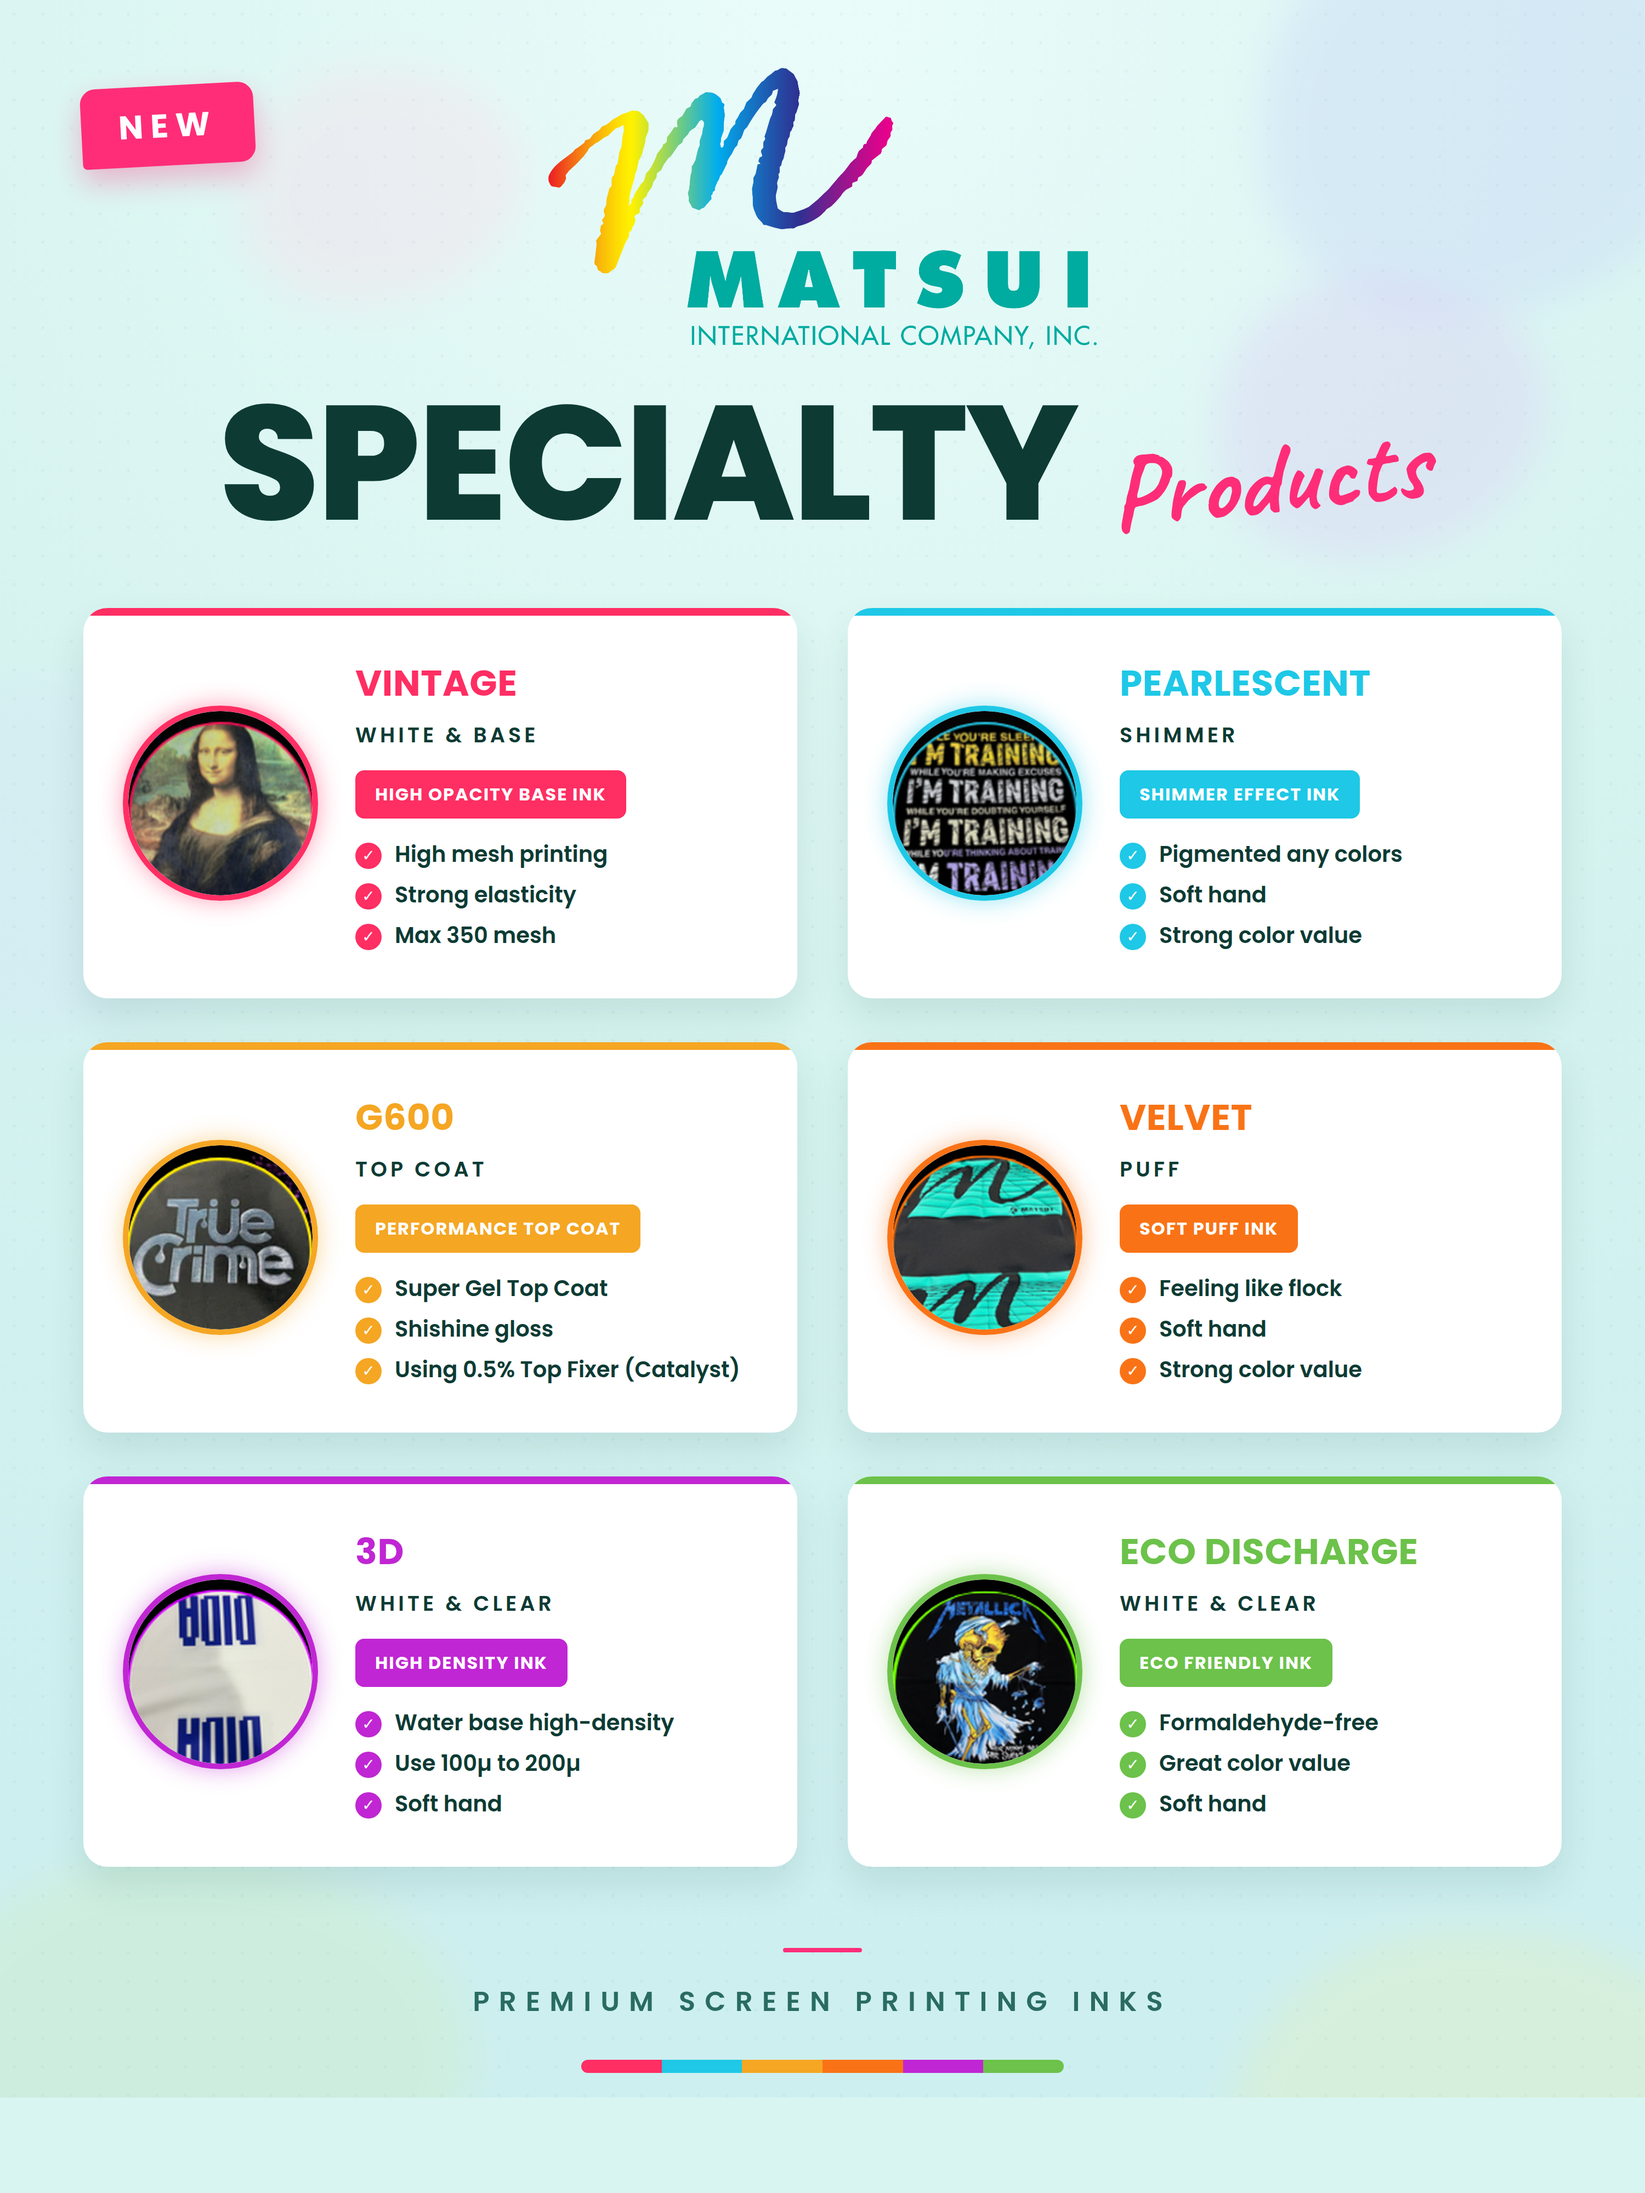
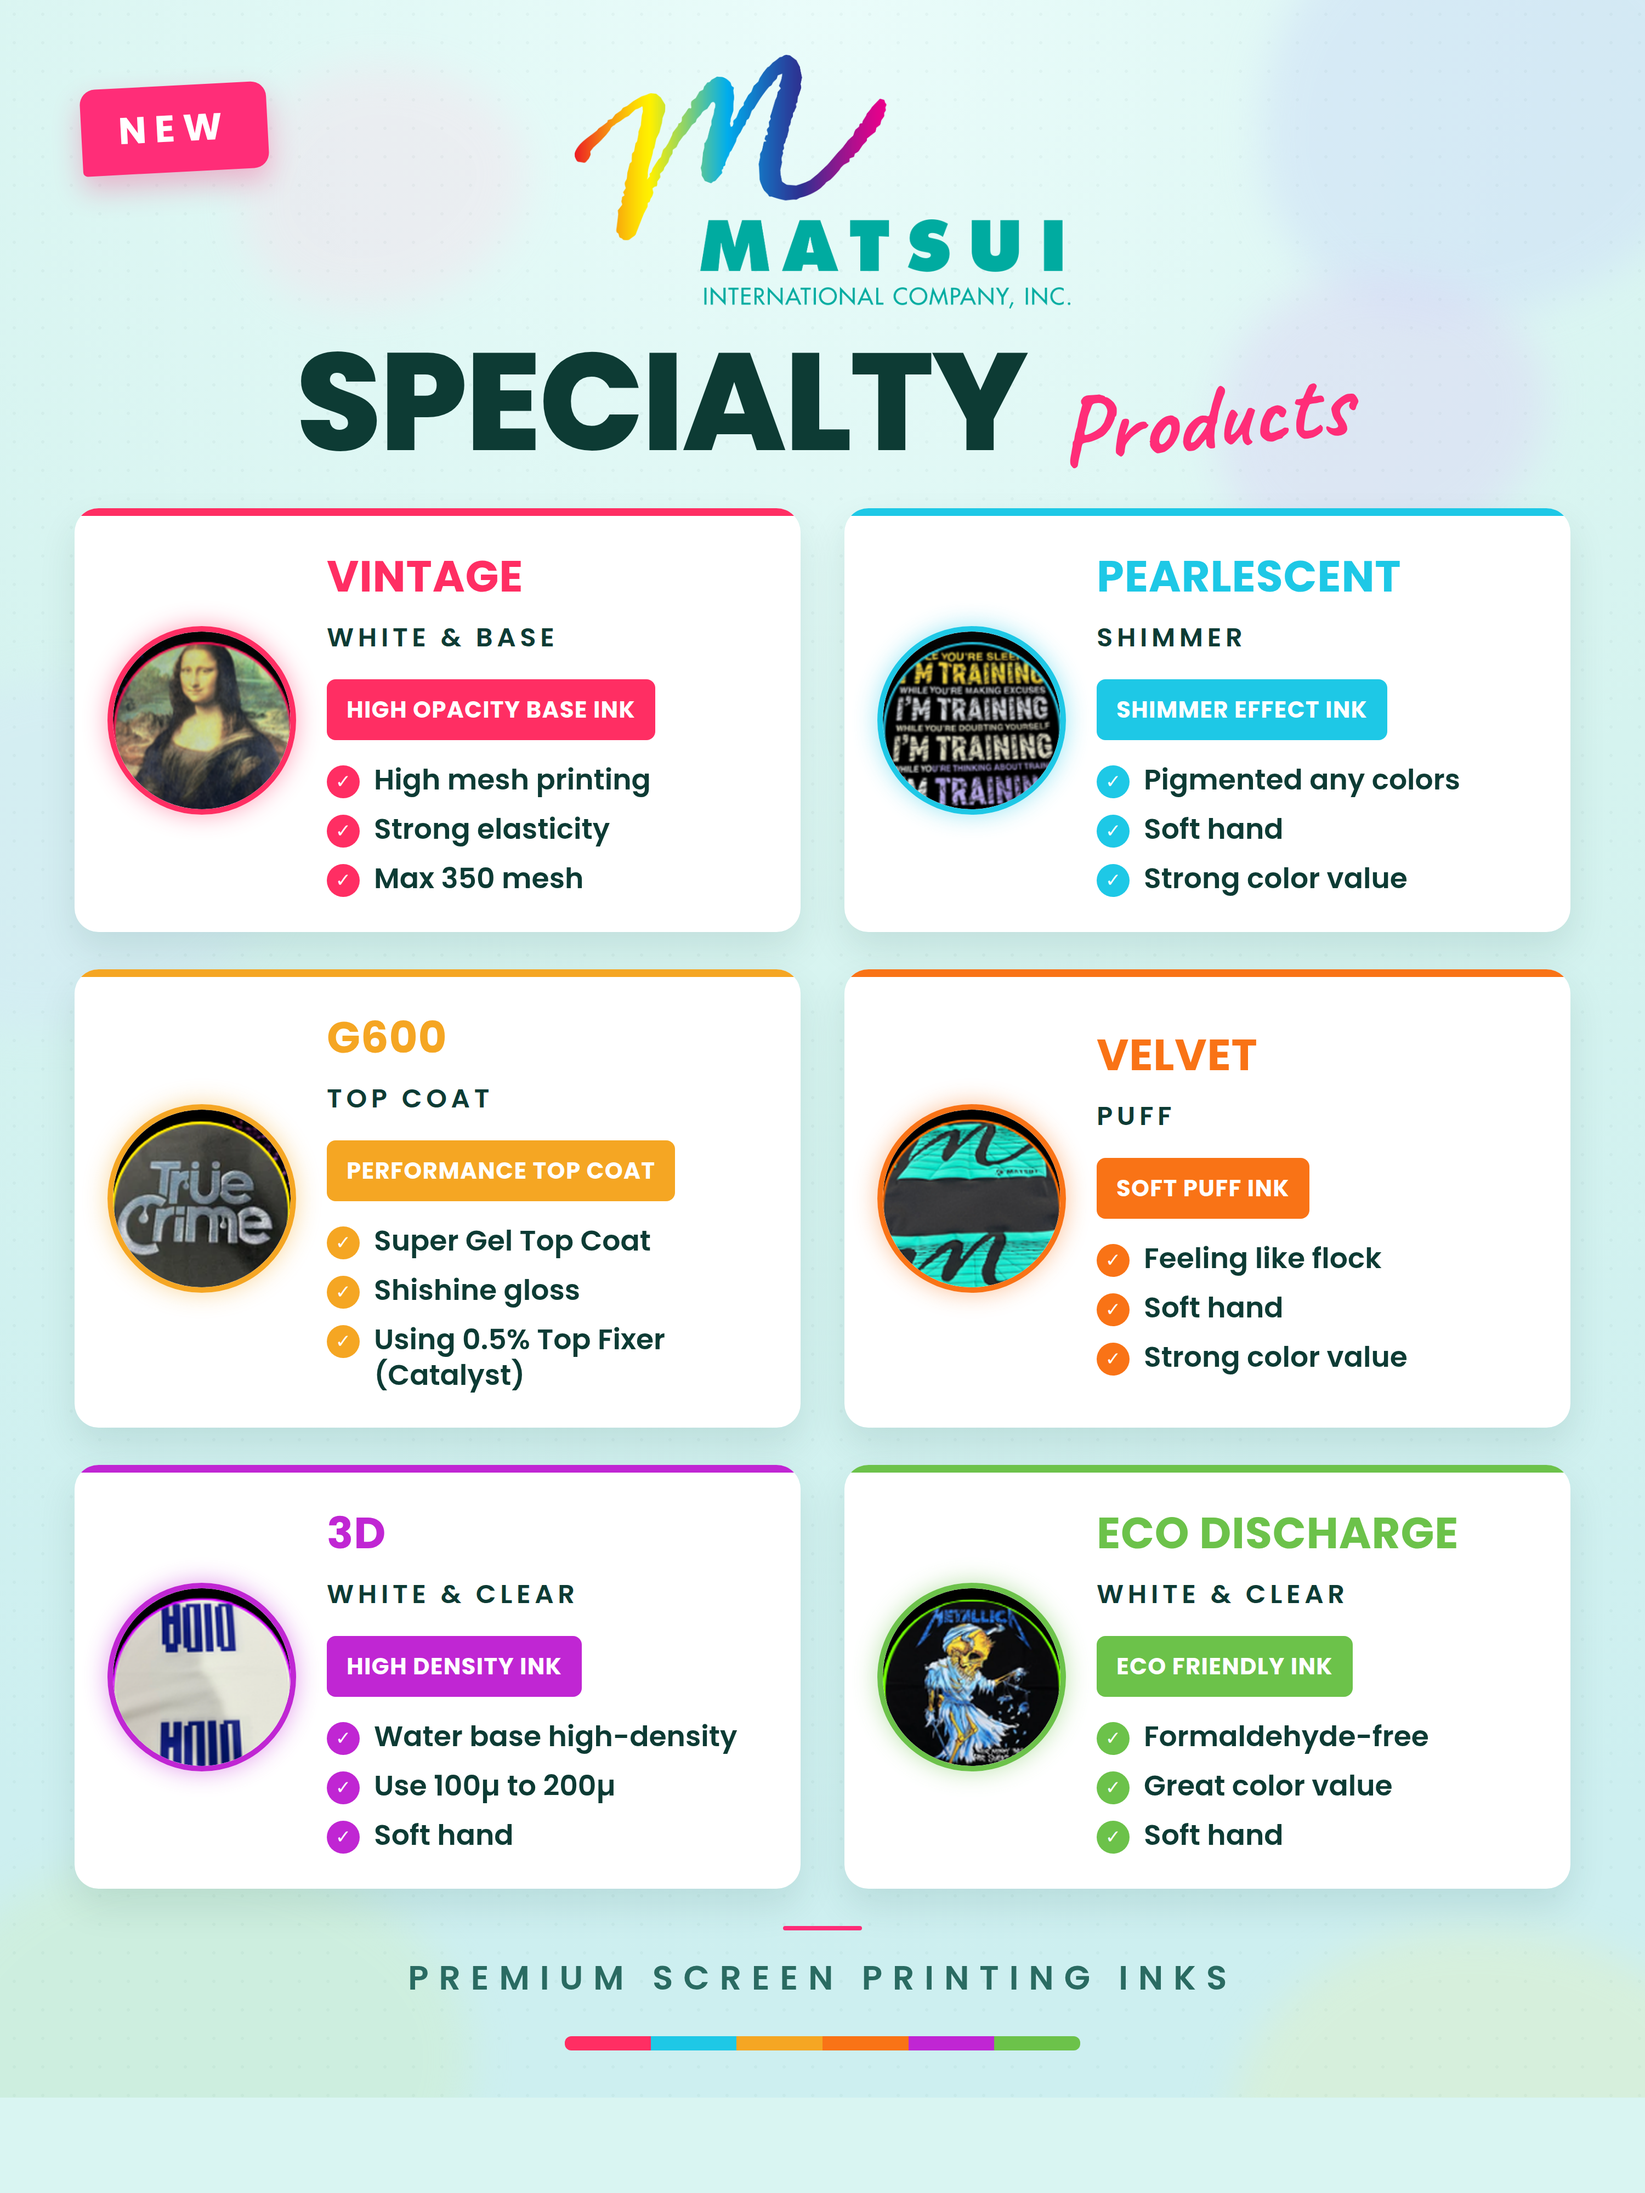
Enlarge poster type for Instagram carousel legibility
These posters are going out as an Instagram carousel, where the canvas
is displayed ~1080px wide on a phone. Scales up the smallest elements
and reflows the layout so everything still fits the 1500x2000 canvas:

- Detail card bullets 20 -> 26px, badges 16 -> 21px, subtitles 19 -> 24px,
  product names 33 -> 40px, check icons 24 -> 30px
- Overview card names 38 -> 42px, subtitles 22 -> 27px, badges 18 -> 23px
- Footer tagline 25 -> 31px, NEW chip 30 -> 34px
- Headline trimmed to 126px and header/grid/footer spacing tightened to
  make room; "ECO DISCHARGE" kept on one line

Claude-Session: https://claude.ai/code/session_01LZkeM3k2qiK2KzoJat9AUK

Changed region(s): [[0.031, 0.0312, 0.961, 0.9688], [0.062, 0.0312, 0.186, 0.0938]]

diff --git a/specialty-products-details.html b/specialty-products-details.html
@@ -7,46 +7,46 @@
 <style>
   .grid {
     grid-template-columns: repeat(2, 1fr);
-    gap: 40px 46px;
-    padding: 0 76px;
-    margin-top: 58px;
+    gap: 34px 40px;
+    padding: 0 68px;
+    margin-top: 34px;
   }
   .card {
     display: flex;
     align-items: center;
-    gap: 34px;
-    padding: 44px 40px 44px 36px;
+    gap: 28px;
+    padding: 32px 30px 32px 30px;
   }
-  .shot { width: 178px; height: 178px; flex: 0 0 178px; }
-  .name { font-size: 33px; margin-bottom: 8px; }
-  .sub  { font-size: 19px; margin-bottom: 18px; }
-  .badge { font-size: 16px; padding: 10px 18px; }
+  .shot { width: 172px; height: 172px; flex: 0 0 172px; }
+  .name { font-size: 40px; margin-bottom: 8px; }
+  .sub  { font-size: 24px; margin-bottom: 20px; }
+  .badge { font-size: 21px; padding: 12px 18px; letter-spacing: .03em; }
 
   .points { margin-top: 20px; }
   .points li {
     list-style: none;
     display: flex;
     align-items: flex-start;
-    gap: 12px;
-    font-size: 20px;
+    gap: 13px;
+    font-size: 26px;
     font-weight: 600;
-    line-height: 1.28;
+    line-height: 1.24;
     color: var(--ink);
   }
-  .points li + li { margin-top: 11px; }
+  .points li + li { margin-top: 12px; }
   .points .tick {
-    flex: 0 0 24px;
-    width: 24px; height: 24px;
-    margin-top: 2px;
+    flex: 0 0 30px;
+    width: 30px; height: 30px;
+    margin-top: 3px;
     border-radius: 50%;
     background: var(--accent);
     color: #fff;
     font-family: "DejaVu Sans", sans-serif;
-    font-size: 14px;
-    line-height: 24px;
+    font-size: 17px;
+    line-height: 30px;
     text-align: center;
   }
-  .footer { margin-top: 74px; }
+  .footer { margin-top: 34px; }
 </style>
 </head>
 <body>
@@ -58,7 +58,7 @@
   <div class="content">
     <div class="new-chip">NEW</div>
 
-    <img class="logo" src="Matsui logo.png" width="500" alt="Matsui International Company, Inc.">
+    <img class="logo" src="Matsui logo.png" width="452" alt="Matsui International Company, Inc.">
 
     <div class="title">
       <h1>SPECIALTY</h1>

diff --git a/assets/poster.css b/assets/poster.css
@@ -65,7 +65,7 @@ body {
   padding: 14px 34px;
   background: var(--pink);
   color: #fff;
-  font-size: 30px;
+  font-size: 34px;
   font-weight: 700;
   letter-spacing: .22em;
   border-radius: 14px 14px 14px 4px;
@@ -76,18 +76,18 @@ body {
 .logo {
   display: block;
   margin: 0 auto;
-  padding-top: 62px;
+  padding-top: 50px;
 }
 
 .title {
-  margin-top: 30px;
+  margin-top: 22px;
   display: flex;
   align-items: center;
   justify-content: center;
   gap: 28px;
 }
 .title h1 {
-  font-size: 148px;
+  font-size: 126px;
   font-weight: 800;
   letter-spacing: -.015em;
   line-height: 1;
@@ -96,7 +96,7 @@ body {
 .title .script {
   font-family: "Caveat", cursive;
   font-weight: 700;
-  font-size: 96px;
+  font-size: 88px;
   color: var(--pink);
   transform: rotate(-6deg) translateY(14px);
 }
@@ -154,22 +154,22 @@ body {
 .footer { text-align: center; }
 .footer .rule {
   width: 72px; height: 4px;
-  margin: 0 auto 26px;
+  margin: 0 auto 20px;
   background: var(--pink);
   border-radius: 2px;
 }
 .footer .tag {
-  font-size: 25px;
+  font-size: 31px;
   font-weight: 600;
-  letter-spacing: .34em;
+  letter-spacing: .3em;
   color: var(--ink-soft);
   text-transform: uppercase;
 }
 .swatches {
   display: flex;
-  width: 440px;
-  margin: 34px auto 0;
-  height: 12px;
+  width: 470px;
+  margin: 30px auto 0;
+  height: 13px;
   border-radius: 6px;
   overflow: hidden;
 }

diff --git a/specialty-products-overview.html b/specialty-products-overview.html
@@ -9,14 +9,14 @@
     grid-template-columns: repeat(3, 1fr);
     gap: 36px;
     padding: 0 76px;
-    margin-top: 66px;
+    margin-top: 58px;
   }
-  .card { padding: 46px 30px 44px; text-align: center; }
-  .shot { width: 210px; height: 210px; margin: 0 auto 30px; }
-  .name { font-size: 38px; margin-bottom: 10px; }
-  .sub  { font-size: 22px; margin-bottom: 26px; }
-  .badge { font-size: 18px; padding: 13px 22px; }
-  .footer { margin-top: 118px; }
+  .card { padding: 44px 20px 44px; text-align: center; }
+  .shot { width: 218px; height: 218px; margin: 0 auto 30px; }
+  .name { font-size: 42px; margin-bottom: 12px; white-space: nowrap; }
+  .sub  { font-size: 27px; margin-bottom: 30px; }
+  .badge { font-size: 23px; padding: 15px 20px; letter-spacing: .03em; }
+  .footer { margin-top: 72px; }
 </style>
 </head>
 <body>
@@ -28,7 +28,7 @@
   <div class="content">
     <div class="new-chip">NEW</div>
 
-    <img class="logo" src="Matsui logo.png" width="530" alt="Matsui International Company, Inc.">
+    <img class="logo" src="Matsui logo.png" width="500" alt="Matsui International Company, Inc.">
 
     <div class="title">
       <h1>SPECIALTY</h1>
